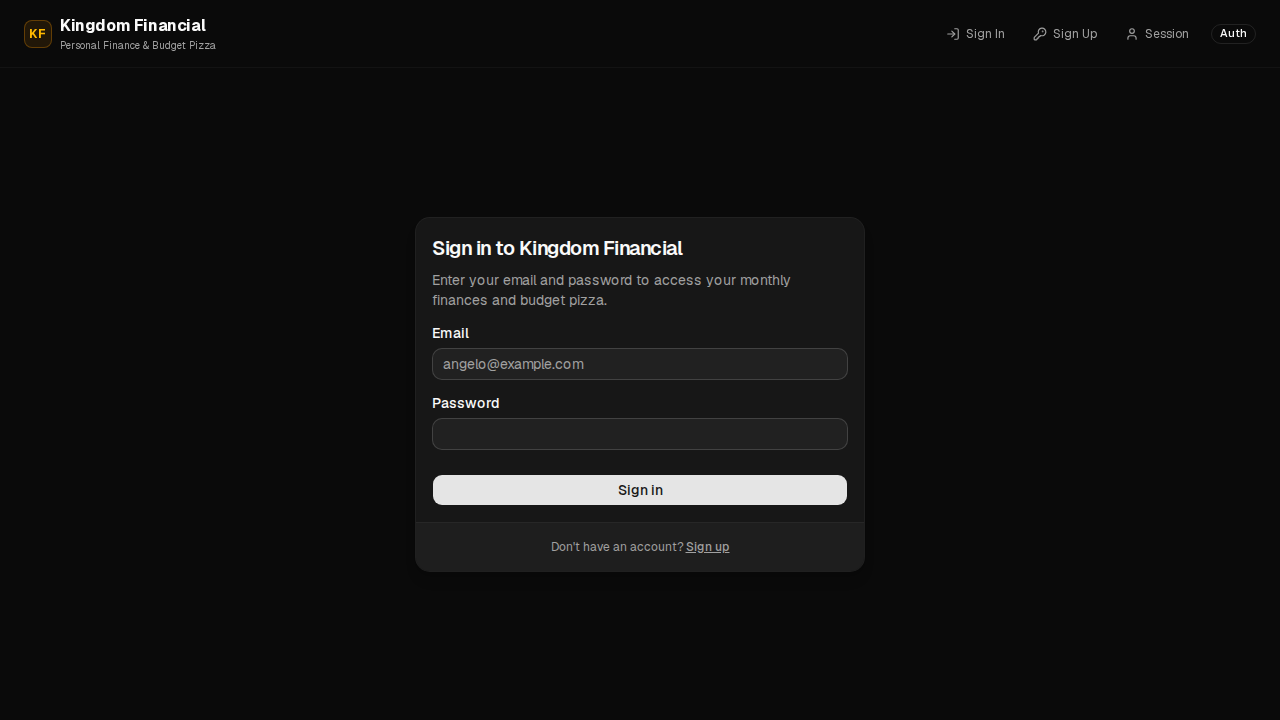
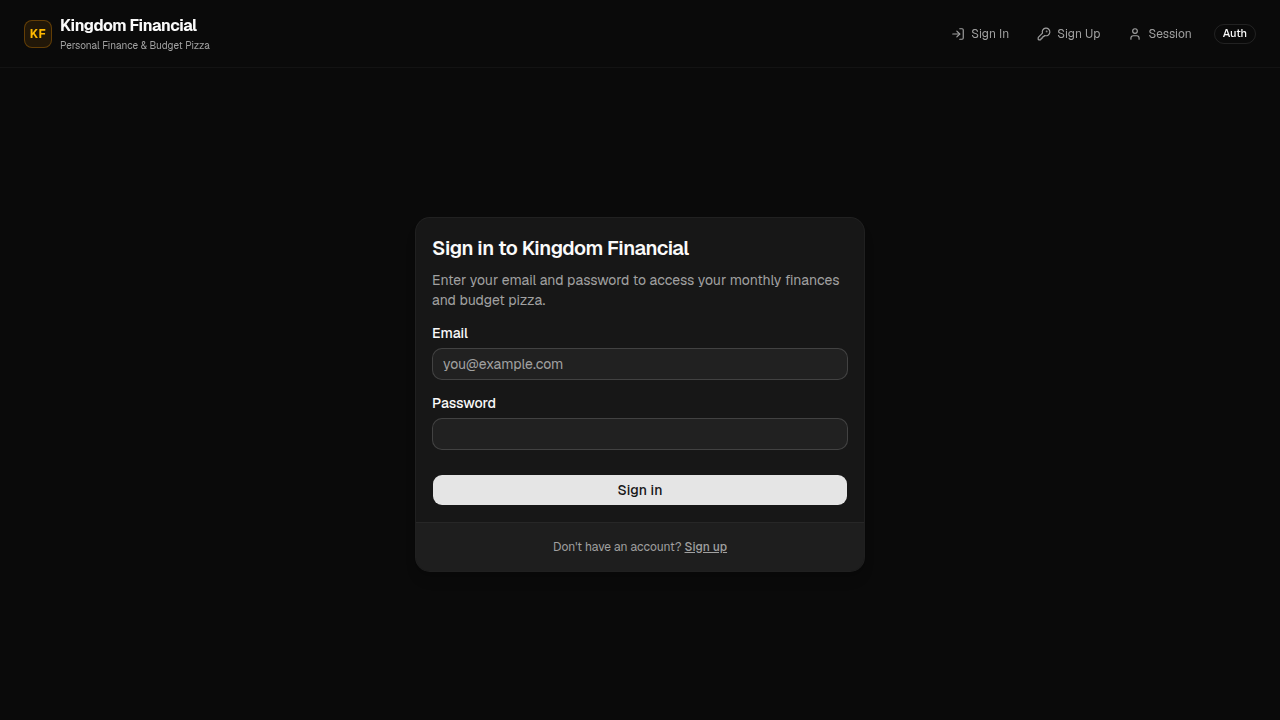
fix(auth): use generic placeholders on sign-in and sign-up
Replace personal name and email hints with neutral copy so auth forms
do not prefill the user's identity in placeholders or test fixtures.

diff --git a/src/app/(auth)/sign-up/page.tsx b/src/app/(auth)/sign-up/page.tsx
@@ -33,7 +33,7 @@ export default function SignUpPage() {
               id="name"
               name="name"
               type="text"
-              placeholder="Ângelo Emanuel Marques"
+              placeholder="Your full name"
               required
               autoComplete="name"
             />
@@ -44,7 +44,7 @@ export default function SignUpPage() {
               id="email"
               name="email"
               type="email"
-              placeholder="angelo@example.com"
+              placeholder="you@example.com"
               required
               autoComplete="email"
             />

diff --git a/e2e/capture-screenshots.spec.ts b/e2e/capture-screenshots.spec.ts
@@ -32,7 +32,7 @@ test.describe("Capture Auth & Session Screenshots", () => {
     await capture(page, "sign-up.png");
 
     const email = `angelo.evidence.${Date.now()}@example.com`;
-    await page.getByLabel("Full Name").fill("Ângelo Emanuel Marques");
+    await page.getByLabel("Full Name").fill("Test User");
     await page.getByLabel("Email").fill(email);
     await page.getByLabel("Password").fill("Password123!");
     await page.getByRole("button", { name: "Create account" }).click();

diff --git a/e2e/auth.spec.ts b/e2e/auth.spec.ts
@@ -3,8 +3,8 @@ import { expect, test } from "@playwright/test";
 test.describe("Authentication and Session Flow", () => {
   const uniqueId = Date.now();
   const testUser = {
-    name: "Angelo Marques",
-    email: `angelo.test.${uniqueId}@example.com`,
+    name: "Test User",
+    email: `user.test.${uniqueId}@example.com`,
     password: "Password123!",
   };
 

diff --git a/src/app/(auth)/sign-in/page.tsx b/src/app/(auth)/sign-in/page.tsx
@@ -33,7 +33,7 @@ export default function SignInPage() {
               id="email"
               name="email"
               type="email"
-              placeholder="angelo@example.com"
+              placeholder="you@example.com"
               required
               autoComplete="email"
             />
